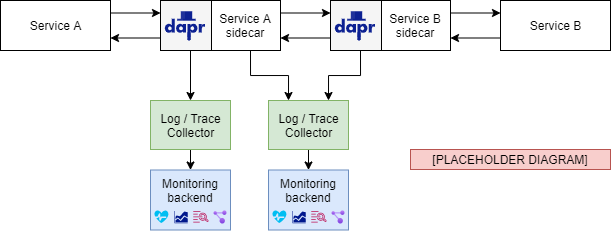
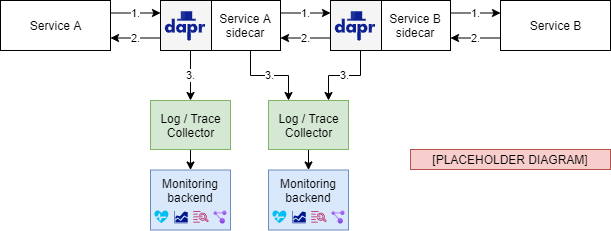
Update arch diagram and description

diff --git a/docs/architecture/dapr-for-net-developers/observability.md b/docs/architecture/dapr-for-net-developers/observability.md
@@ -36,11 +36,15 @@ The fact that Dapr uses a sidecar architecture (as explained in [Chapter 2](dapr
 
 Dapr offers the ability to configure certain **collectors** that will collect the telemetry and publish it using formats and protocols that are based on open standards. Because of this design, Dapr can integrate with several different monitoring backends, including Application Insights. In Figure 9-1, you see an overview of the Dapr observability architecture:
 
-![Overview of the Dapr observability architecture](media/observability/observability-architecture.png)
+![](media/observability/observability-architecture.png)
 
 **Figure 9-1**: Overview of the Dapr observability architecture
 
-Observability in Dapr is a bit different from the other building blocks like pub/sub or state management. There is no specific observability building block you need to configure. Instead, you need to configure a collector that will ingest all the telemetry emitted by the Dapr runtime and publish it to the monitoring backend of your choice. As you can see in Figure 9-1, It is also possible to configure multiple collectors to integrate with different monitoring backends. 
+1. Service A calls an operation on Service B. This call is routed through the Dapr sidecars to Service B.
+1. The response is sent back to Service A through the Dapr sidecars.
+1. The sidecars gather all available telemetry for every request and response and publish this to the configured collector(s).  
+
+Observability in Dapr is a bit different from the other building blocks like pub/sub or state management. There is no specific observability building block that you need to configure. Instead, you need to configure a collector that will ingest all the telemetry emitted by the Dapr runtime and publish it to the monitoring backend of your choice. As you can see in Figure 9-1, It is also possible to configure multiple collectors to integrate with different monitoring backends. 
 
 As stated in the introduction, we can identify four different categories of telemetry. The following sections will provide more details on each of these categories. It will include instructions on how to configure the collector(s) to integrate with some of the most popular monitoring backends out there. 
 
